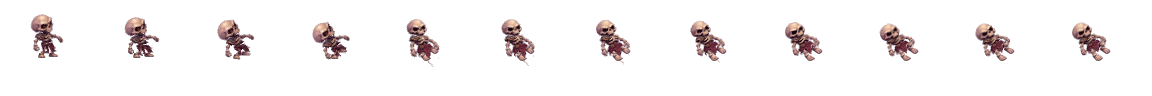
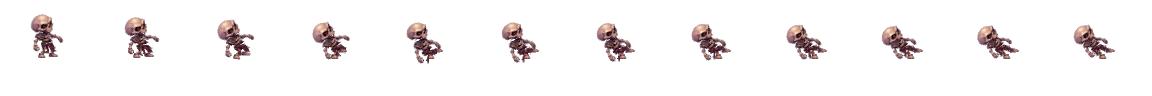
Adopt the original-cutout skeleton death motion

diff --git a/artsource/spritecut/crypt-skeleton/authoring/bake_combat_v006.py b/artsource/spritecut/crypt-skeleton/authoring/bake_combat_v006.py
@@ -1,5 +1,6 @@
 """Transfer the v004 backward fall to the original v002 skeleton cutouts."""
 
+import argparse
 from pathlib import Path
 from tempfile import TemporaryDirectory
 
@@ -8,7 +9,7 @@ from PIL import Image, ImageDraw
 from spritecut.animation.character import rest_geometry
 
 from bake_combat_v002 import MATERIAL, compiler_character
-from bake_combat_v004 import VERSION as REFERENCE, cells, read, registered_landmarks, screen_turn, unit
+from bake_combat_v004 import VERSION as REFERENCE, cells, publish, read, registered_landmarks, screen_turn, unit
 from build_crypt_skeleton import CELL, DIRECTIONS, GROUND, PROJECT, spritecut, write
 
 
@@ -243,4 +244,9 @@ def compare(before, after):
 
 
 if __name__ == "__main__":
-    bake()
+    parser = argparse.ArgumentParser(description=__doc__)
+    parser.add_argument("--publish", action="store_true", help="apply the verified fall to Godot")
+    if parser.parse_args().publish:
+        publish(VERSION)
+    else:
+        bake()

diff --git a/artsource/spritecut/crypt-skeleton/authoring/bake_combat_v004.py b/artsource/spritecut/crypt-skeleton/authoring/bake_combat_v004.py
@@ -304,12 +304,13 @@ def preview(baseline, clips):
     panel.convert("RGB").resize((1200, 440), Image.Resampling.NEAREST).save(previews / "pose-sheet-2x.png")
 
 
-def publish():
-    clips = read(VERSION / "sheets/clips.json")["clips"]
+def publish(version=VERSION):
+    sheets = version / "sheets"
+    clips = read(sheets / "clips.json")["clips"]
     for direction in DIRECTIONS:
         clip = clips["collapse_" + direction]
         color = clip["maps"]["color"]
-        shutil.copyfile(VERSION / "sheets" / color, RUNTIME / color)
+        shutil.copyfile(sheets / color, RUNTIME / color)
     for clip in clips.values():
         clip["maps"] = {kind: Path(path).name for kind, path in clip["maps"].items()}
     sprite_frames(clips)

diff --git a/artsource/spritecut/crypt-skeleton/README.md b/artsource/spritecut/crypt-skeleton/README.md
@@ -9,35 +9,26 @@
 [재료 기록](materials/v002/revision.json) · [ImageGen 프롬프트](sources/v002/imagegen-prompt.txt)
 
 <a id="전투-모션-v003"></a>
+<a id="전투-모션-v004"></a>
 
-## 전투 모션 v004
+## 전투 모션 v006
 
-우측전면과 우측후면에서 팔꿈치와 무릎, 손목과 발목을 나눴다. 게임은 반대쪽 이동에 좌우 반전을 사용한다. [Godot 사망 자세 1배율 화면](motions/combat/v004/previews/chamber-contact-1x.png) · [이동·공격 대표 자세](motions/combat/v002/previews/motion-poses-2x.png)
+우측전면과 우측후면에서 팔꿈치와 무릎, 손목과 발목을 나눴다. 게임은 반대쪽 이동에 좌우 반전을 사용한다. [이동·공격 대표 자세](motions/combat/v002/previews/motion-poses-2x.png)
 
 | 모션 | 동작 | 재생 |
 | --- | --- | --- |
 | 이동 | 양발이 지면을 번갈아 딛는 440ms 루프. 반대쪽 팔과 허리 천이 따라온다. | [이동](motions/combat/v002/previews/walk.gif) |
 | 피격 | 두개골과 흉곽이 뒤로 튕기고 290ms 동안 자세를 되찾는다. | [피격](motions/combat/v002/previews/hit.gif) |
 | 공격 | 팔을 당겨 360ms 동안 예고한다. 내지르는 첫 셀에 타격 판정이 나고 520ms 동안 팔을 거둔다. | [공격](motions/combat/v002/previews/attack.gif) |
-| 사망 | 바라보던 방향의 반대쪽 대각선으로 쓰러진다. 흉곽과 얼굴이 위를 향하고, 등이 닿은 뒤 두개골이 마지막으로 내려앉는다. 12프레임, 전체 720ms. | [사망 전후 비교](motions/combat/v004/previews/fall-comparison.gif) |
+| 사망 | 바라보던 방향의 반대쪽 대각선으로 쓰러진다. 등이 닿은 뒤 두개골이 내려앉는다. 각 방향 12프레임, 전체 720ms. | [v004와 동시 재생](motions/combat/v006/previews/original-parts-comparison.gif) |
 
-왈츠 사망 모션과 같은 방식으로 두 발의 접지점을 맞추고, 몸통의 길이만 눕는 축을 따라 줄였다. [바닥 자세 원화](sources/v003/originals/supine-contact.png)에서 분리한 흉곽과 두개골은 각각 움직인다. 사망 셀은 96×96px이며 발 피벗의 높이는 58px이다.
+v002에서 분리한 두개골, 흉곽, 팔과 다리에 v004의 프레임 길이와 골반·목 궤적을 옮겼다. 발이 지면을 짚은 뒤에는 발목을 고정하고 무릎을 풀어 쓰러진다. 후면에서는 뒤통수가 넘어가 시야에서 벗어날 때 v002의 전면 두개골 파츠가 드러난다. 사망 셀은 96×96px이며 피벗은 (48, 58)이다.
 
-후면의 발 위치를 고정한 [v005 비교본](motions/combat/v005/previews/rear-foot-comparison.gif)을 검수한 뒤 v004를 채택했다.
-
-게임 루트에서 사망 모션의 컬러·노멀·이미시브 시트를 다시 굽는다. `--publish`가 컬러 시트 두 장과 SpriteFrames를 게임에 적용한다. 이동·피격·공격의 v002 시트가 먼저 있어야 한다.
-
-~~~powershell
-../SpriteCut/.venv/Scripts/python.exe artsource/spritecut/crypt-skeleton/authoring/bake_combat_v004.py
-../SpriteCut/.venv/Scripts/python.exe artsource/spritecut/crypt-skeleton/authoring/bake_combat_v004.py --publish
-~~~
-
-[동작 레시피와 시트](motions/combat/v004/revision.json) · [Windows SpriteCut 뷰어](spritecut-viewer.cmd) · [v003](motions/combat/v003/revision.json) · [v002](motions/combat/v002/revision.json)
-
-### 기존 파츠 사망 시안 v006
-
-v002에서 분리한 두개골, 흉곽, 팔과 다리에 v004의 프레임 길이와 골반·목 궤적을 옮겼다. 후면에서는 뒤통수가 넘어가 시야에서 벗어날 때 v002의 전면 두개골 파츠가 드러난다. [채택본과 비교 GIF](motions/combat/v006/previews/original-parts-comparison.gif) · [시안 기록과 시트](motions/combat/v006/revision.json)
+게임 루트에서 사망 모션의 컬러·노멀·이미시브 시트를 다시 굽는다. `--publish`는 채택한 컬러 시트 두 장과 SpriteFrames를 게임에 적용한다.
 
 ~~~powershell
 ../SpriteCut/.venv/Scripts/python.exe artsource/spritecut/crypt-skeleton/authoring/bake_combat_v006.py
+../SpriteCut/.venv/Scripts/python.exe artsource/spritecut/crypt-skeleton/authoring/bake_combat_v006.py --publish
 ~~~
+
+[동작 레시피와 시트](motions/combat/v006/revision.json) · [Windows SpriteCut 뷰어](spritecut-viewer.cmd) · [v004 모션 참조](motions/combat/v004/revision.json) · [v005 발 위치 비교](motions/combat/v005/previews/rear-foot-comparison.gif)
